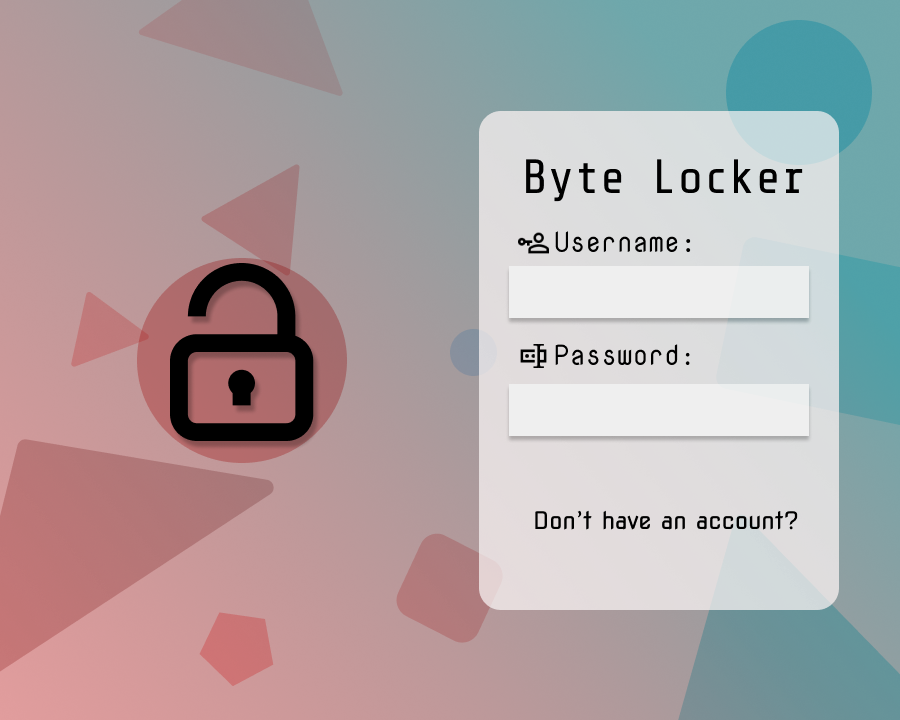
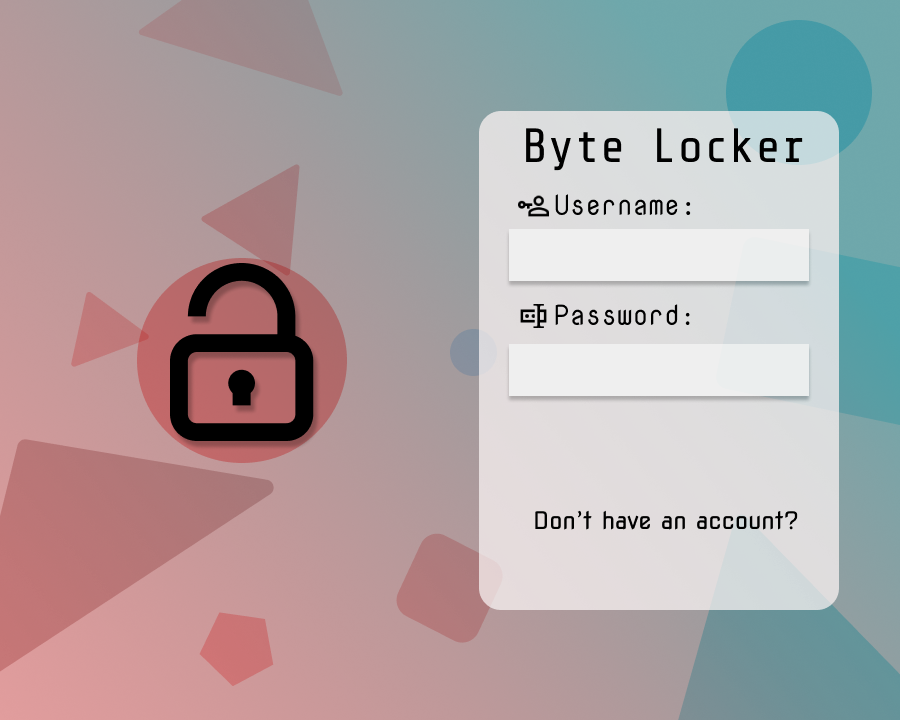
18:03

Changed region(s): [[0.56, 0.1833, 0.9022, 0.5194], [0.56, 0.55, 0.9022, 0.6111]]

diff --git a/LoginPage.java b/LoginPage.java
@@ -1,5 +1,6 @@
 import java.awt.*;
 import java.awt.event.*;
+import java.lang.reflect.Array;
 import java.util.*;
 import javax.swing.*;
 
@@ -22,7 +23,10 @@ public class LoginPage implements ActionListener
     JButton registerButton=new JButton();
     JButton registerButton2=new JButton();
     JButton backButton=new JButton();
-
+    JLabel captchaLabel;
+    JLabel warningLabel=new JLabel();
+    int generatedCode=genCaptcha();
+    JLabel loginFail=new JLabel();
 
     public LoginPage()
     {
@@ -38,10 +42,11 @@ public class LoginPage implements ActionListener
         JLabel bgImage=new JLabel(bg);
         bgImage.setBounds(0,0,900,720);
         bgImage.setVisible(true);
-        userField.setBounds(510,266,300,52);
+        loginFail.setForeground(Color.red);
+        userField.setBounds(510,229,300,52);
         userField.setBorder(javax.swing.BorderFactory.createEmptyBorder());  //removes border from textfields
         passField.setBorder(javax.swing.BorderFactory.createEmptyBorder());
-        passField.setBounds(510,384,300,52);
+        passField.setBounds(510,331,300,52);
         loginButton.setVisible(true);
         loginButton.setIcon(lg);
         loginButton.setFocusable(false);
@@ -60,6 +65,7 @@ public class LoginPage implements ActionListener
         registerButton.addActionListener(this);
         main.add(registerButton);
         main.add(loginButton);
+        main.add(loginFail);
         main.add(bgImage);
         main.add(userField);
         main.add(passField);
@@ -69,6 +75,7 @@ public class LoginPage implements ActionListener
         ImageIcon regBg=new ImageIcon(".//assets//Frame 2.png");
         ImageIcon reg2=new ImageIcon(".//assets//RegisterButton.png");
         ImageIcon backBut=new ImageIcon(".//assets//Back.png");
+        captchaLabel=new JLabel(""+generatedCode);
         JLabel regBackImage=new JLabel(regBg);
         regBackImage.setBounds(0,0,900,720);
         regBackImage.setVisible(true);
@@ -78,7 +85,7 @@ public class LoginPage implements ActionListener
         registerButton2.setFocusPainted(false);
         registerButton2.setBorderPainted(false);
         registerButton2.setContentAreaFilled(false);
-        registerButton2.setBounds(577,588,154,44);
+        registerButton2.setBounds(573,588,154,44);
         registerButton2.addActionListener(this);
         backButton.setVisible(true);
         backButton.setIcon(backBut);
@@ -86,7 +93,7 @@ public class LoginPage implements ActionListener
         backButton.setFocusPainted(false);
         backButton.setBorderPainted(false);
         backButton.setContentAreaFilled(false);
-        backButton.setBounds(577,648,154,44);
+        backButton.setBounds(573,648,154,44);
         backButton.addActionListener(this);
         userField2.setBounds(500,170,300,52);
         userField2.setBorder(javax.swing.BorderFactory.createEmptyBorder());  //removes border from textfields
@@ -96,10 +103,17 @@ public class LoginPage implements ActionListener
         confirmPass.setBorder(javax.swing.BorderFactory.createEmptyBorder());
         captcha.setBorder(javax.swing.BorderFactory.createEmptyBorder());
         captcha.setBounds(604,491,95,31);
+        captchaLabel.setBounds(720,455,95,31);
+        captchaLabel.setVisible(true);
+        warningLabel.setBounds(602,500,300,100);
+        warningLabel.setVisible(false);
+        warningLabel.setForeground(Color.red);
+        register.add(captchaLabel);
         register.add(registerButton2);
         register.add(backButton);
         register.add(userField2);
         register.add(passField2);
+        register.add(warningLabel);
         register.add(captcha);
         register.add(confirmPass);
         register.add(regBackImage);
@@ -136,17 +150,86 @@ public class LoginPage implements ActionListener
             }
             if (loginFound==false)
             {
+                loginFail.setText("Please try again.");
+                loginFail.setBounds(615,400,300,54);
                 temp=new Account();
-                System.out.println("Account not found"); //make label visible that says account not found
             }
         }
         if (e.getSource()==registerButton2)
         {
-            
+            boolean dupeName=false;
+            for (Account i:accArr)
+            {
+                if (i.getUsername().equals(userField2.getText()))
+                {
+                    dupeName=true;
+                }
+            }
+            System.out.println("Account creation requested");
+            if (dupeName)
+            {
+                warningLabel.setBounds(565,500,300,100);
+                warningLabel.setText("Please change your username.");
+                warningLabel.setVisible(true);
+            }
+            else if (captcha.getText().equals("")||Integer.parseInt(captcha.getText())!=generatedCode)
+            {
+                warningLabel.setBounds(602,500,300,100);
+                warningLabel.setText("Redo Captcha.");
+                warningLabel.setVisible(true);
+                generatedCode=genCaptcha();
+                captchaLabel.setText(""+generatedCode);
+            }
+            else if (userField2.getText().equals(""))
+            {
+                warningLabel.setBounds(602,500,300,100);
+                warningLabel.setText("Username cannot be blank.");
+                warningLabel.setVisible(true);
+                generatedCode=genCaptcha();
+                captchaLabel.setText(""+generatedCode);
+            }
+            else
+            {
+                if (!String.valueOf(passField2.getPassword()).equals("")||!String.valueOf(confirmPass.getPassword()).equals(""))
+                {
+                    if (!String.valueOf(passField2.getPassword()).equals(String.valueOf(confirmPass.getPassword())))
+                    {
+                        warningLabel.setText("Passwords do not match up.");
+                        warningLabel.setVisible(true);
+                        generatedCode=genCaptcha();
+                        captchaLabel.setText(""+generatedCode);
+                    }
+                    else 
+                    {
+                        if (Account.passwordIsStrongEnough(String.valueOf(passField2.getPassword())).equals("Strong"))
+                        {
+                            accArr.add(new Account(userField2.getText(),String.valueOf(passField2.getPassword())));
+                            cardSwitch.show(superPanel, "main");
+                        }
+                        else 
+                        {
+                            warningLabel.setText(Account.passwordIsStrongEnough(String.valueOf(passField2.getPassword())));
+                            warningLabel.setBounds(500,500,300,100);
+                            warningLabel.setVisible(true);
+                        }
+                    }
+                }
+                else
+                {
+                    warningLabel.setText("Please type a password.");
+                    warningLabel.setVisible(true);
+                    generatedCode=genCaptcha();
+                    captchaLabel.setText(""+generatedCode);
+                }
+            }
         }
         if (e.getSource()==backButton)
         {
             cardSwitch.show(superPanel, "main");
         }
+    }
+    public int genCaptcha()
+    {
+        return (int) (Math.random()*899999+100000);
     }
 }

diff --git a/Account.java b/Account.java
@@ -18,6 +18,16 @@ public class Account
         password="";
     }
 
+    public String getUsername()
+    {
+        return username;
+    }
+    
+    public String getPassword()
+    {
+        return password;
+    }
+
     public void addPassword(Passwords pass)
     {
         passArr.add(pass);
@@ -104,7 +114,7 @@ public class Account
         }
         return false;
     }
-    private static boolean checkLowercase(String password) //don't work
+    private static boolean checkLowercase(String password) 
     {
         String lowerChars="qwertyuiopasdfghjklzxcvbnm";
         for (int i=0;i<lowerChars.length(); i++)
